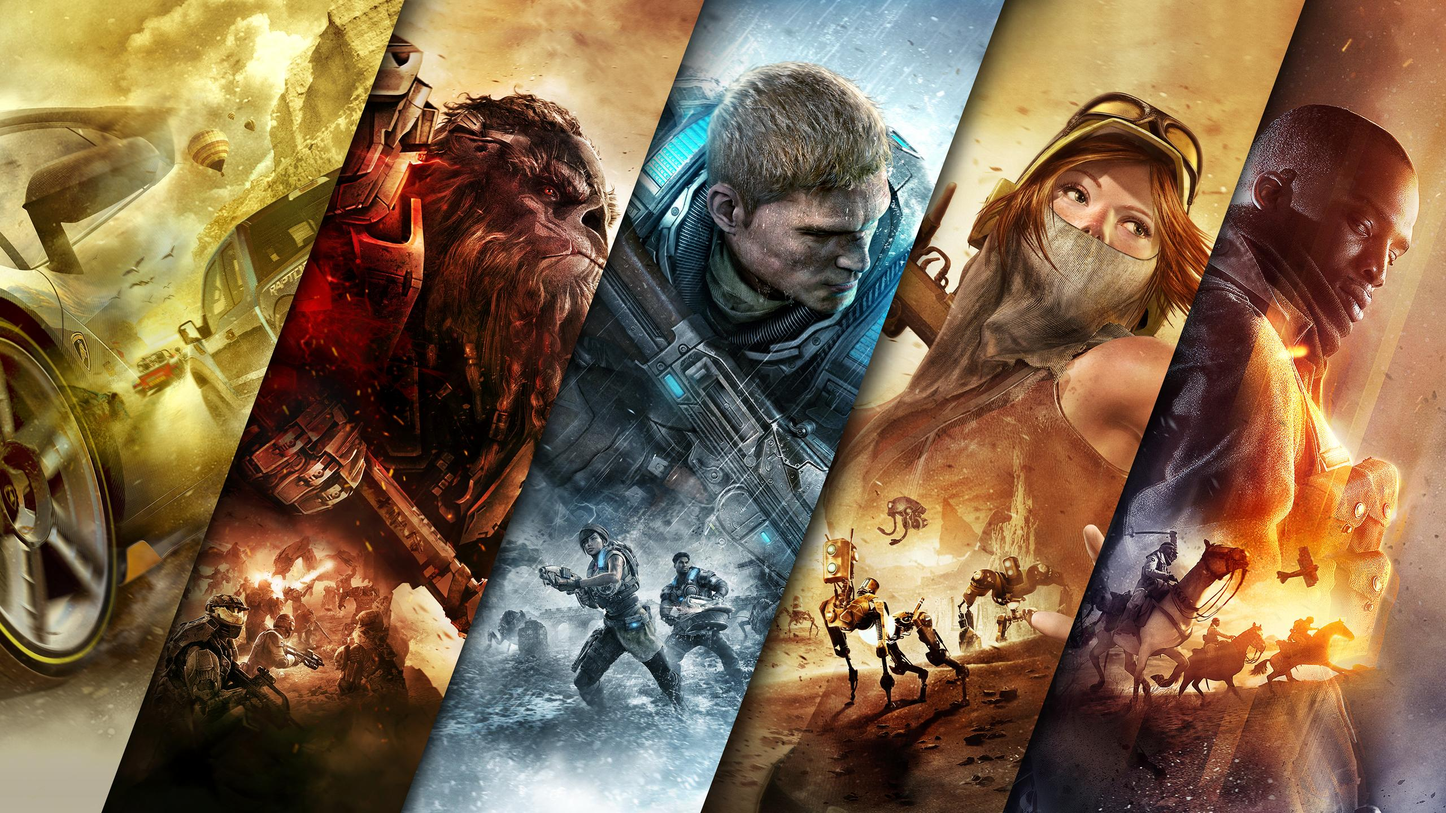
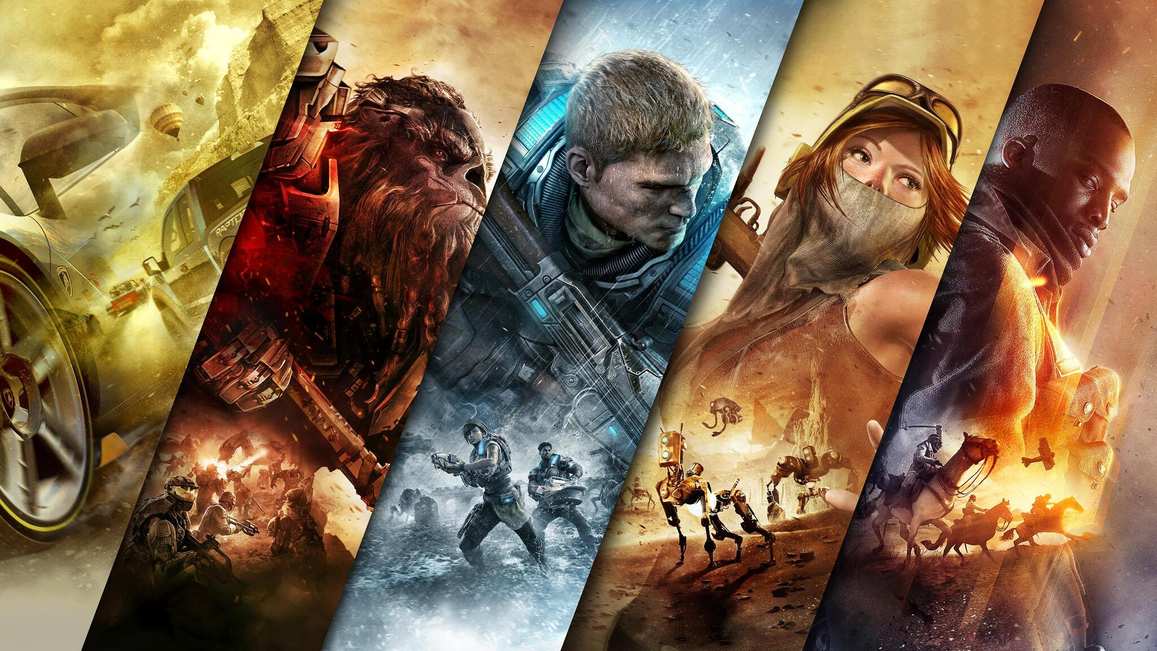
avances

diff --git a/index.html b/index.html
@@ -29,10 +29,10 @@
             <div class="slider">
                 <ul>
                     <li><img src="img/banner.jpg"></li>
-                    <li><img src="img/banner2.png"></li>
+                    <li><img src="img/banner3.jpg"></li>
                 </ul>
             </div>
-            <!--<img src="img/banner.jpg"> -->
+            <!--<img src="img/banner.jpg">--> 
             <div class="contenedor">
                 <h2>Juegos multiplataforma</h2>
                 <p>¿Cuál es el mejor juego para usted?</p>

diff --git a/css/banner.css b/css/banner.css
@@ -3,10 +3,10 @@
 
 }
 
+
 .slider{
     width: 100%;
-    height: 50px;
-    /*height: 400px;*/
+    height: 400px;
 }
 
 .slider ul{
@@ -28,10 +28,10 @@
 
 @keyframes cambio{
     0% {margin-left: 0%;}
-    40% {margin-left: 0%;}
+    20% {margin-left: 0%;}
     
+    40% {margin-left: -100%;}
     60% {margin-left: -100%;}
-    100% {margin-left: -100%;}
     
 }
 
@@ -91,6 +91,7 @@
 
 @media (min-width:1024px){
 
+    
     #banner img{
         height: auto;
         margin-top: -100px;

diff --git a/css/catalogo.css b/css/catalogo.css
@@ -10,8 +10,9 @@
 }
 
 #catalogo article{
-    margin: 15px;    
+    margin: 15px;   
 }
+
 
 #catalogo img {
     width: 100%;
@@ -19,10 +20,12 @@
     height: 286px;
 }
 
+
+
 .zoom{
     transition: transform 1s;
 }
 
 .zoom:hover{
-   transform: scale(1.25); 
+   transform: scale(1.05); 
 }
